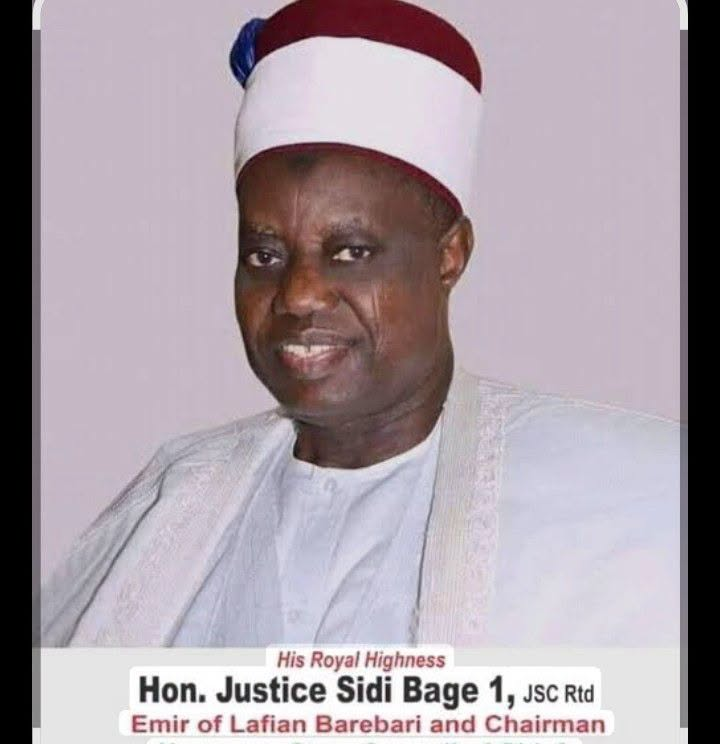
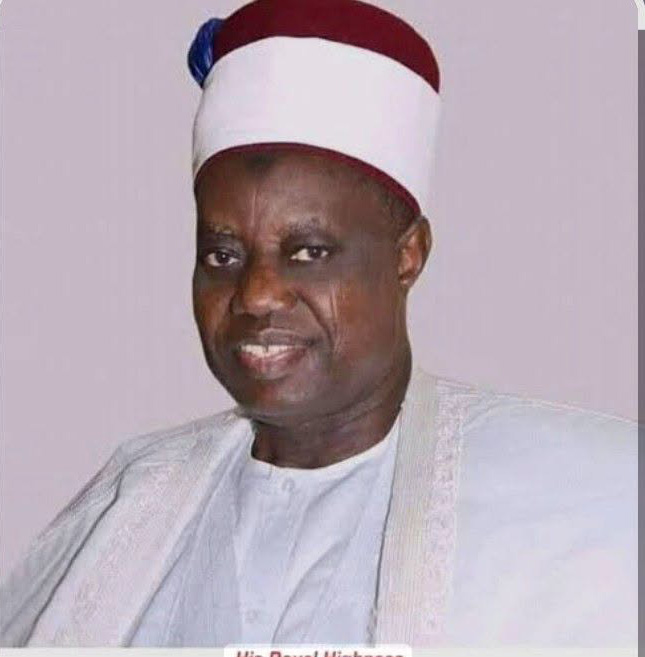
images of head of ministries and agencies added complete

diff --git a/frontend/src/data/leadership.js b/frontend/src/data/leadership.js
@@ -104,7 +104,7 @@ const leadership = {
     institution:
       "Nasarawa State Ministry of Finance, Budget and Economic Planning",
     category: "Ministry",
-    image: "/images/leadership/placeholder.jpg",
+    image: "/images/leadership/finance.jpg",
     logo: "/images/ministries/nas_logo.png",
   },
 
@@ -115,7 +115,7 @@ const leadership = {
     institution:
       "Nasarawa State Ministry of Women Affairs & Social Development",
     category: "Ministry",
-    image: "/images/leadership/placeholder.jpg",
+    image: "/images/leadership/women.jpg",
     logo: "/images/ministries/nas_logo.png",
   },
    {
@@ -125,7 +125,7 @@ const leadership = {
     institution:
       "Nasarawa State Ministry of Information, Culture & Tourism",
     category: "Ministry",
-    image: "/images/leadership/placeholder.jpg",
+    image: "/images/leadership/culture.jpg",
     logo: "/images/ministries/nas_logo.png",
   },
 
@@ -138,7 +138,7 @@ const leadership = {
     institution:
       "Nasarawa State Primary Healthcare Development Agency (NAPHDA)",
     category: "Agency",
-    image: "/images/leadership/placeholder.jpg",
+    image: "/images/leadership/naphda.jpg",
     logo: "/images/ministries/nas_logo.png",
   },
 
@@ -148,7 +148,7 @@ const leadership = {
     designation: "Executive Secretary",
     institution: "Nasarawa State Health Insurance Agency",
     category: "Agency",
-    image: "/images/leadership/placeholder.jpg",
+    image: "/images/leadership/healthinsure.jpg",
     logo: "/images/ministries/nas_logo.png",
   },
 
@@ -158,7 +158,7 @@ const leadership = {
     designation: "Executive Chairman",
     institution: "Nasarawa State Universal Basic Education Board",
     category: "Agency",
-    image: "/images/leadership/placeholder.jpg",
+    image: "/images/leadership/subeb.jpg",
     logo: "/images/ministries/nas_logo.png",
   },
 
@@ -170,7 +170,7 @@ const leadership = {
     institution:
       "Christian Association of Nigeria (CAN), Nasarawa State Chapter",
     category: "Religious Institution",
-    image: "/images/leadership/placeholder.jpg",
+    image: "/images/leadership/can2.jpg",
     logo: "/images/ministries/nas_logo.png",
   },
 
@@ -180,7 +180,7 @@ const leadership = {
     designation: "State Chairman",
     institution: "Jama'atu Nasril Islam (JNI)",
     category: "Religious Institution",
-    image: "/images/leadership/jni.jpg",
+    image: "/images/leadership/jni2.jpg",
     logo: "/images/ministries/nas_logo.png",
   },
 
@@ -190,7 +190,7 @@ const leadership = {
     designation: "Executive Chairman",
     institution: "Nasarawa State Disability Rights Commission",
     category: "Agency",
-    image: "/images/leadership/placeholder.jpg",
+    image: "/images/leadership/barde.jpg",
     logo: "/images/ministries/nas_logo.png",
   },
 
